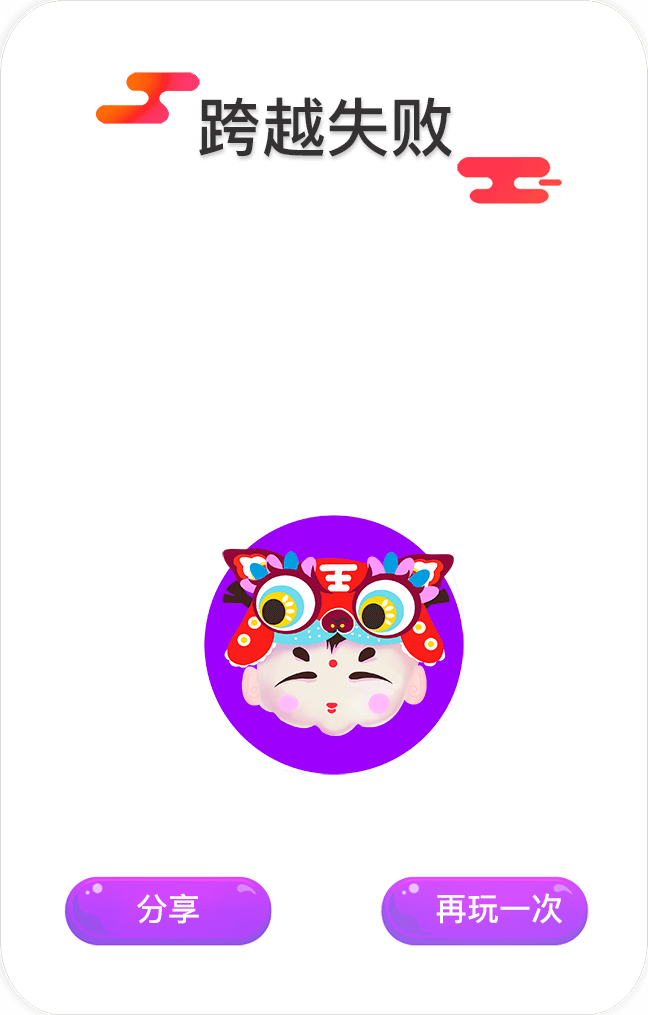
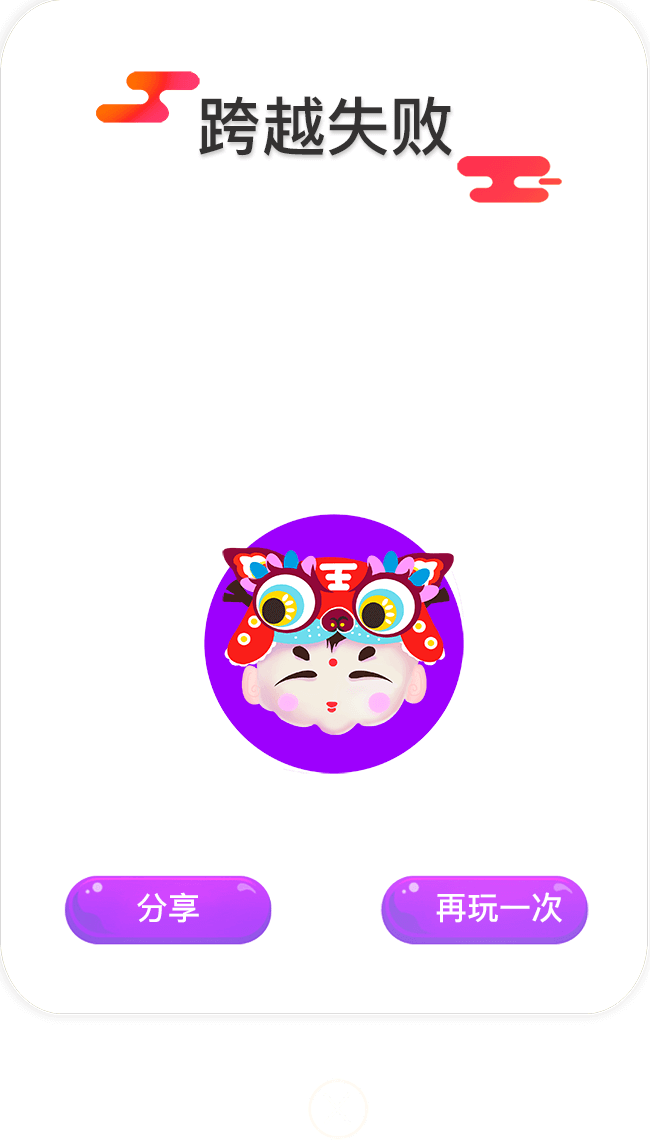
小人的起跳 问题：在block前还是后

Changed region(s): [[0.0926, 0.4276, 0.9259, 0.9468], [0.1235, 0.0611, 0.8642, 0.2138], [0.9877, 0.0611, 1.0, 0.9468]]

diff --git a/css/newYearGame.less b/css/newYearGame.less
@@ -12,13 +12,6 @@ a{ text-decoration:none;}
 .fl{  float: left;  }
 .fr{float: right}
 
-
-/*[data-dpr="2"] div {
-  font-size: 24px;
-}
-[data-dpr="3"] div {
-  font-size: 36px;
-}*/
 //game
 @red:#fb0c2c;
 #view_game{
@@ -106,28 +99,24 @@ a{ text-decoration:none;}
   top: 0;
   width: 100%;
   height: 100%;
-  //display: -webkit-box;
-  display: none;
-  -webkit-box-pack:center;
   background-color: rgba(0,0,0,.3);
+  display: none;
   .red{
     color: @red;
   }
 }
 #gamePopContainer{
   .successOrFail{
-    margin-top: 2rem;
-    position: relative;
-    display: none;
+    position: absolute;
+    left: 50%;
+    top: 50%;
+    transform: translate(-50%,-50%);
   }
   .successOrFail .close{
-    position: absolute;
-    left: 0;
-    bottom: -2.2933rem;
     height: 2.2933rem;
     width: 100%;
-    background: url("../img/game/close.png") center center no-repeat;
-    background-size: 0.8233rem 0.8266rem;
+   position: absolute;
+   bottom: -0.5rem;
   }
   .successOrFail .text{
     margin-top: 3.7333rem;
@@ -138,13 +127,13 @@ a{ text-decoration:none;}
   }
   .successPop{
     background: url("../img/game/success_03.png") left center no-repeat;
-    height: 13.5rem;
+    height: 15.2267rem;
     width: 8.62rem;
     background-size: contain;
     .couponBags{
       position: absolute;
       left: 0;
-      bottom: 0;
+      bottom: 1.7rem;
       display: -webkit-box;
       -webkit-box-pack:center;
       width: 100%;
@@ -157,13 +146,13 @@ a{ text-decoration:none;}
   }
   .failPop{
     background: url("../img/game/fail_03.png") left center no-repeat;
-    height: 13.5333rem;
+    height: 15.2rem;
     width: 8.64rem;
     background-size: contain;
     .buttonsArea{
       position: absolute;
       left: 0;
-      bottom: 0.92rem;
+      bottom: 2.62rem;
       display: -webkit-box;
       -webkit-box-pack:center;
       width: 100%;
@@ -176,14 +165,15 @@ a{ text-decoration:none;}
   }
 }
 #resultPopContainer{
-  -webkit-box-align: center;
   .resultPop{
     background: url("../img/game/result.png") left center no-repeat;
     height: 6.3867rem;
     width: 6.6rem;
     background-size: contain;
-    position: relative;
-    display: none;
+    position: absolute;
+    left: 50%;
+    top: 50%;
+    transform: translate(-50%,-50%);
     .share{
       position: absolute;
       bottom: 0.56rem;

diff --git a/js/paoku.js b/js/paoku.js
@@ -257,11 +257,12 @@ var paoku = {
             //位移
             var curTime = Date.now();
             if (_this.lastTime > 0) {
-                if(curTime - _this.lastTime < 1000){
-                    _this.blockS = _this.blockSpeed * (curTime - _this.lastTime);
-                    _this.houseS = _this.houseSpeed * (curTime - _this.lastTime);
-                    _this.runnerS = _this.runnerSpeed * (curTime - _this.lastTime)
-                }
+                _this.blockS = _this.blockSpeed * 15;
+                _this.houseS = _this.houseSpeed * 15;
+                _this.runnerS = _this.runnerSpeed * 15
+                /*_this.blockS = _this.blockSpeed * (curTime - _this.lastTime);
+                _this.houseS = _this.houseSpeed * (curTime - _this.lastTime);
+                _this.runnerS = _this.runnerSpeed * (curTime - _this.lastTime)*/
 
             }
             _this.lastTime = curTime;
@@ -420,11 +421,9 @@ var paoku = {
             }
             if(blockItem.position[1]  < _this.runner.position[1] + _this.runner.renderSize[1] - blockItem.renderSize[1]){
                 ctx.drawImage(blockItem.img, blockItem.position[0], blockItem.position[1], blockItem.renderSize[0], blockItem.renderSize[1]);
-                //_this.runBlock(blockItem,ctx);
                 ctx.drawImage(_this.runner.img, _this.runner.position[0], _this.runner.position[1], _this.runner.renderSize[0], _this.runner.renderSize[1]);
             }else{
                 ctx.drawImage(_this.runner.img, _this.runner.position[0], _this.runner.position[1], _this.runner.renderSize[0], _this.runner.renderSize[1]);
-                //_this.runBlock(blockItem,ctx);
                 ctx.drawImage(blockItem.img, blockItem.position[0], blockItem.position[1], blockItem.renderSize[0], blockItem.renderSize[1]);
             }
         }
